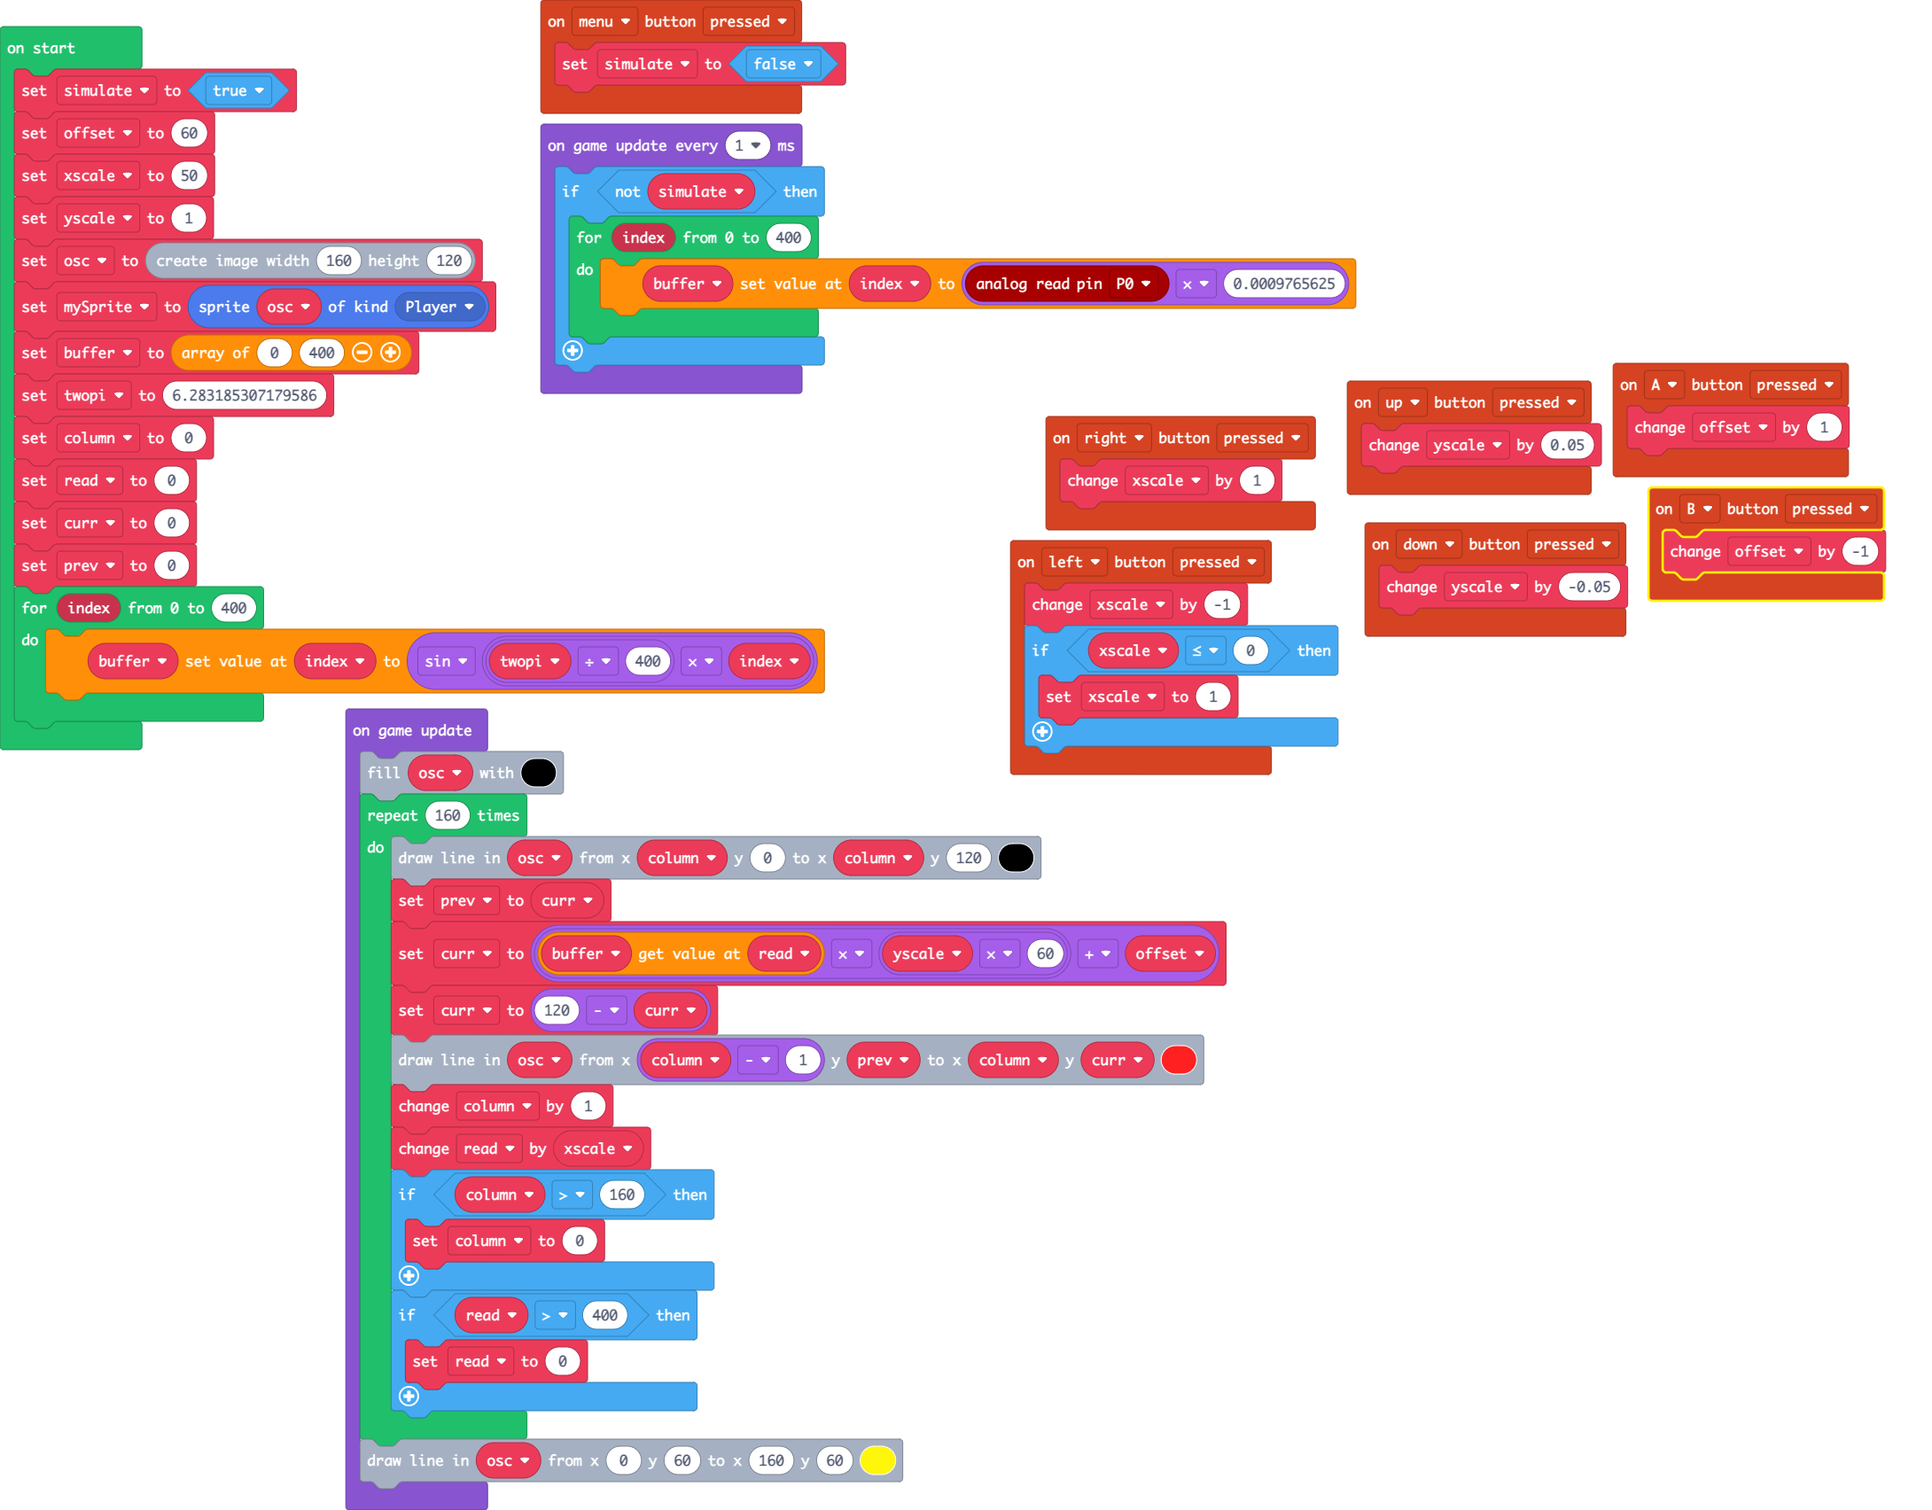
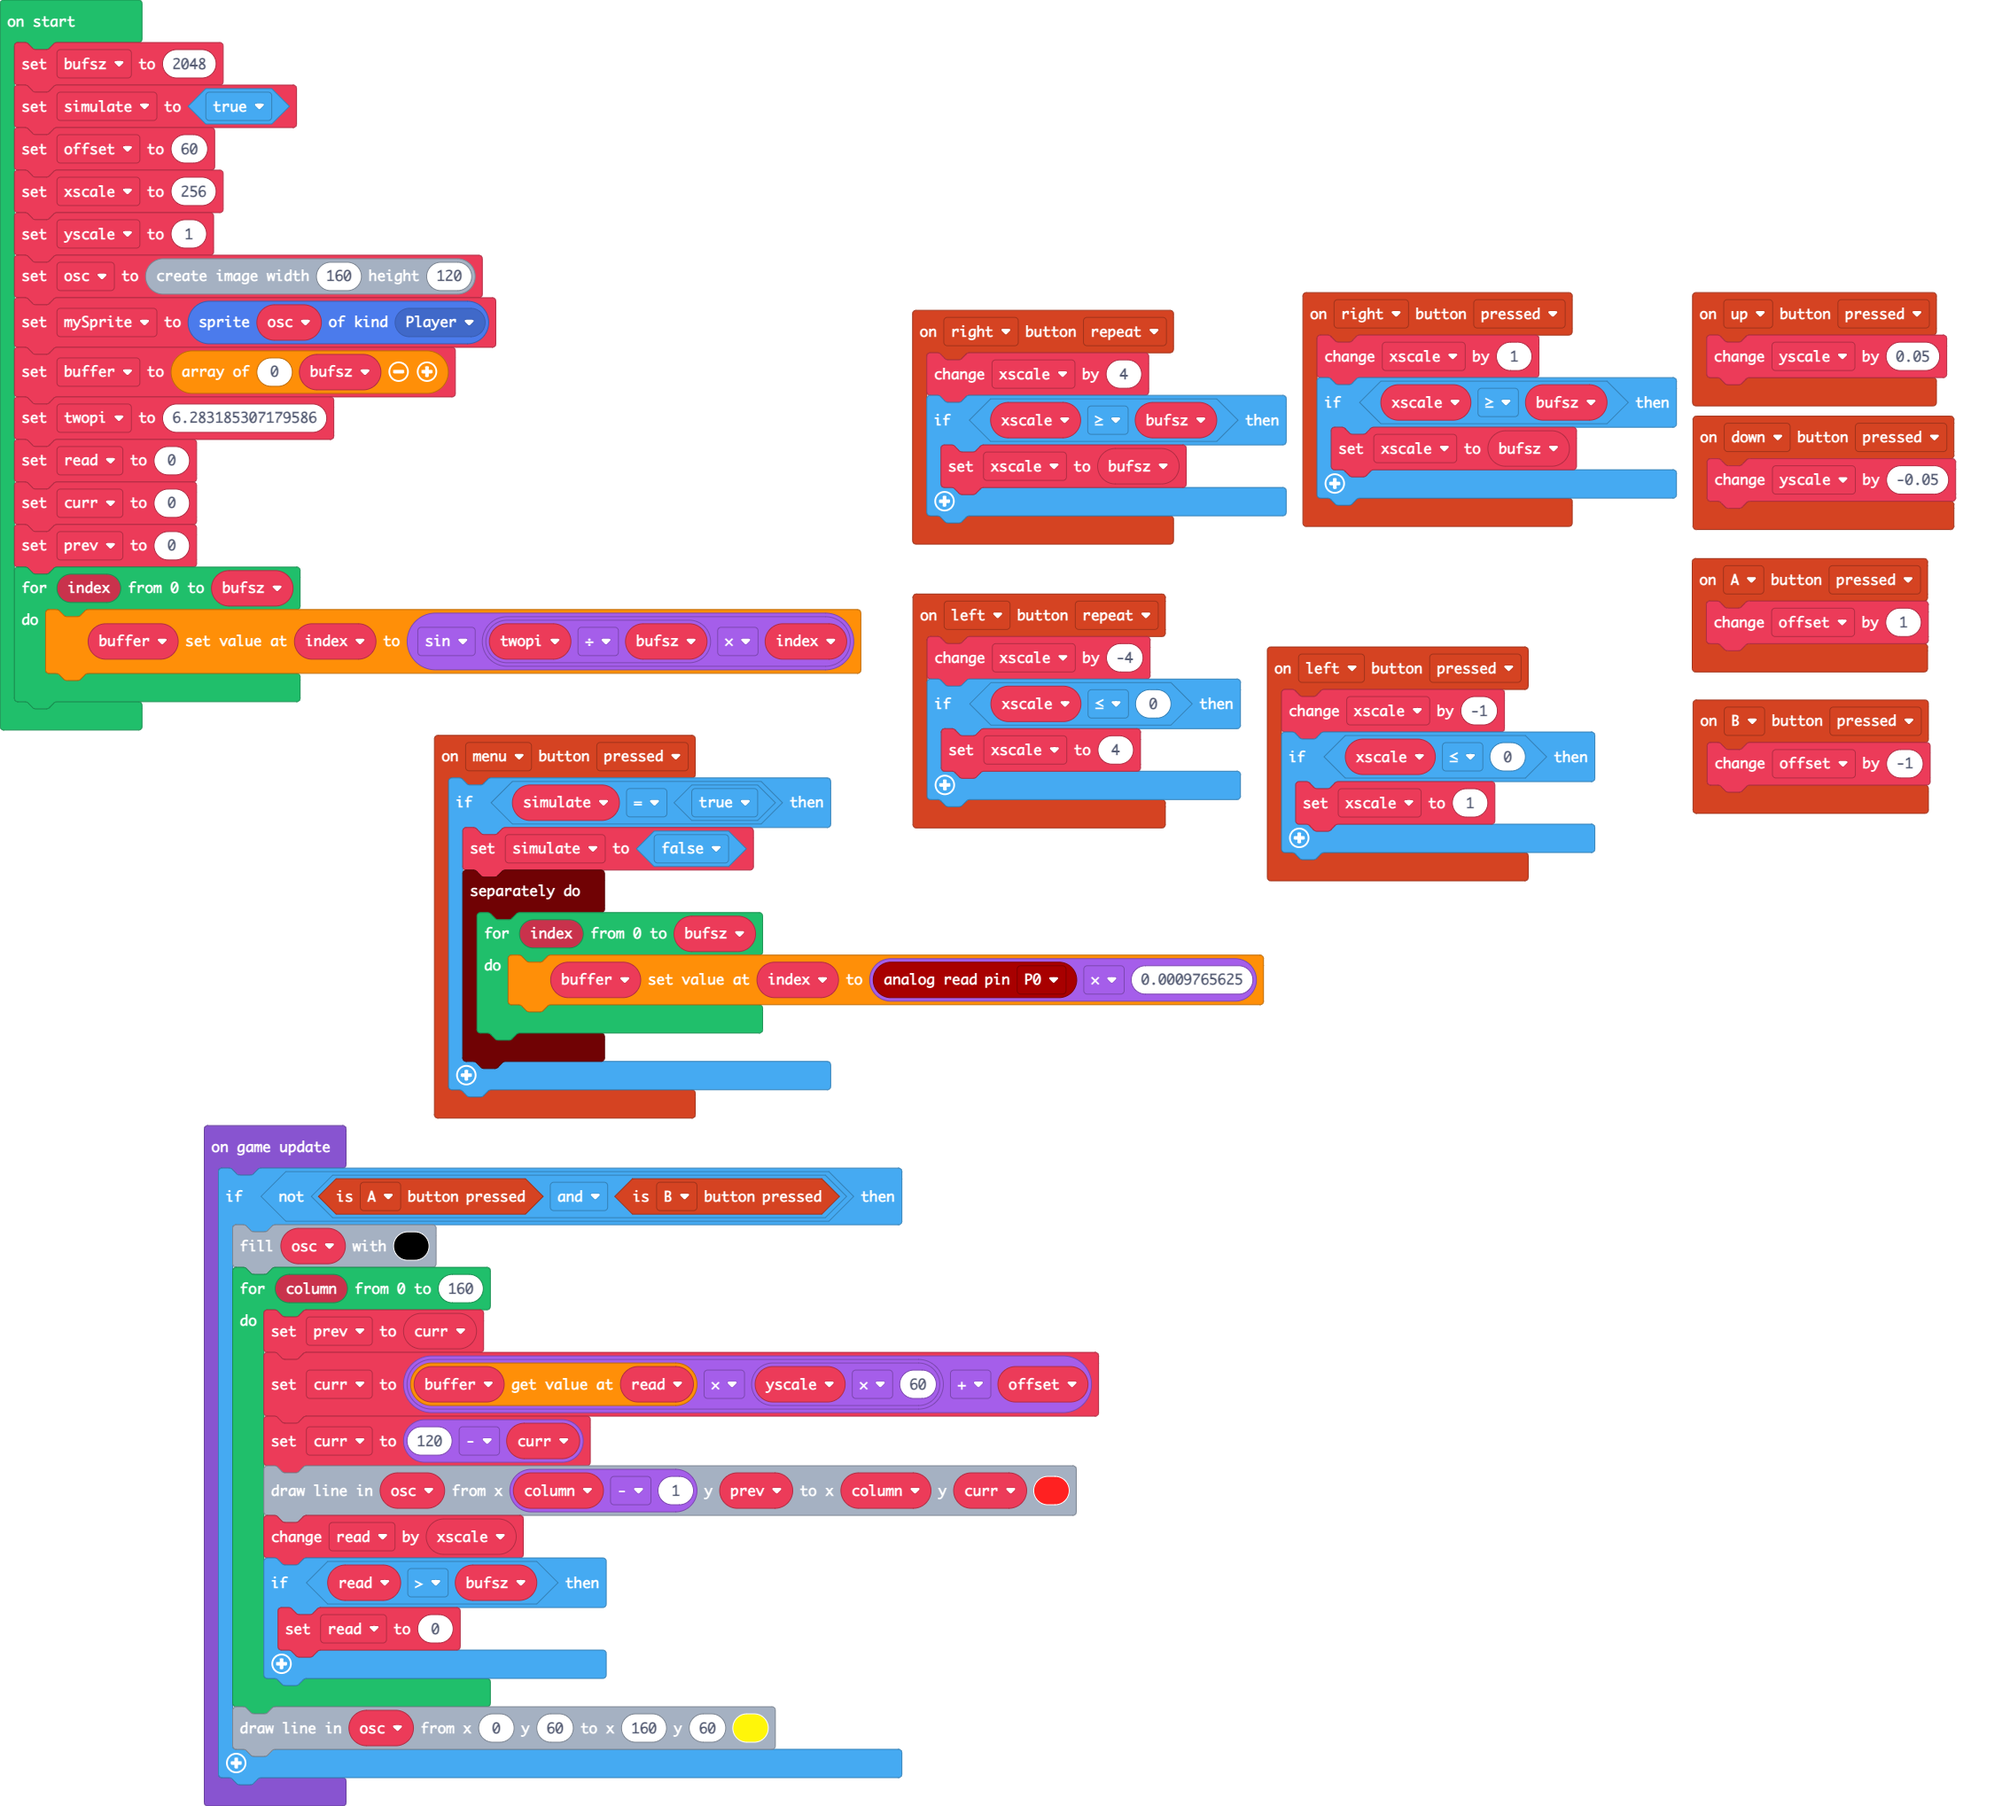
background sampling and better controls

diff --git a/main.ts b/main.ts
@@ -7,6 +7,12 @@ controller.B.onEvent(ControllerButtonEvent.Pressed, function () {
 controller.A.onEvent(ControllerButtonEvent.Pressed, function () {
     offset += 1
 })
+controller.right.onEvent(ControllerButtonEvent.Repeated, function () {
+    xscale += 4
+    if (xscale >= bufsz) {
+        xscale = bufsz
+    }
+})
 controller.left.onEvent(ControllerButtonEvent.Pressed, function () {
     xscale += -1
     if (xscale <= 0) {
@@ -15,53 +21,61 @@ controller.left.onEvent(ControllerButtonEvent.Pressed, function () {
 })
 controller.right.onEvent(ControllerButtonEvent.Pressed, function () {
     xscale += 1
+    if (xscale >= bufsz) {
+        xscale = bufsz
+    }
 })
 controller.down.onEvent(ControllerButtonEvent.Pressed, function () {
     yscale += -0.05
 })
 controller.menu.onEvent(ControllerButtonEvent.Pressed, function () {
-    simulate = false
+    if (simulate == true) {
+        simulate = false
+        timer.background(function () {
+            for (let index = 0; index <= bufsz; index++) {
+                buffer[index] = pins.P0.analogRead() * 0.0009765625
+            }
+        })
+    }
 })
+controller.left.onEvent(ControllerButtonEvent.Repeated, function () {
+    xscale += -4
+    if (xscale <= 0) {
+        xscale = 4
+    }
+})
+let buffer: number[] = []
 let xscale = 0
 let simulate = false
+let bufsz = 0
+bufsz = 2048
 simulate = true
 let offset = 60
-xscale = 50
+xscale = 256
 let yscale = 1
 let osc = image.create(160, 120)
 let mySprite = sprites.create(osc, SpriteKind.Player)
-let buffer = [0, 400]
+buffer = [0, bufsz]
 let twopi = 6.283185307179586
-let column = 0
 let read = 0
 let curr = 0
 let prev = 0
-for (let index = 0; index <= 400; index++) {
-    buffer[index] = Math.sin(twopi / 400 * index)
+for (let index = 0; index <= bufsz; index++) {
+    buffer[index] = Math.sin(twopi / bufsz * index)
 }
 game.onUpdate(function () {
-    osc.fill(15)
-    for (let index = 0; index < 160; index++) {
-        osc.drawLine(column, 0, column, 120, 15)
-        prev = curr
-        curr = buffer[read] * (yscale * 60) + offset
-        curr = 120 - curr
-        osc.drawLine(column - 1, prev, column, curr, 2)
-        column += 1
-        read += xscale
-        if (column > 160) {
-            column = 0
+    if (!(controller.A.isPressed() && controller.B.isPressed())) {
+        osc.fill(15)
+        for (let column = 0; column <= 160; column++) {
+            prev = curr
+            curr = buffer[read] * (yscale * 60) + offset
+            curr = 120 - curr
+            osc.drawLine(column - 1, prev, column, curr, 2)
+            read += xscale
+            if (read > bufsz) {
+                read = 0
+            }
         }
-        if (read > 400) {
-            read = 0
-        }
-    }
-    osc.drawLine(0, 60, 160, 60, 5)
-})
-game.onUpdateInterval(1, function () {
-    if (!(simulate)) {
-        for (let index = 0; index <= 400; index++) {
-            buffer[index] = pins.P0.analogRead() * 0.0009765625
-        }
+        osc.drawLine(0, 60, 160, 60, 5)
     }
 })
